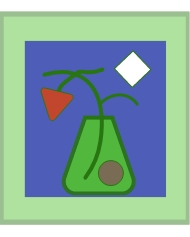
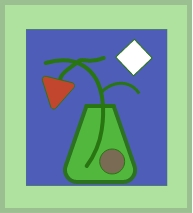
feat: add images

diff --git a/index.html b/index.html
@@ -22,11 +22,15 @@
 </head>
 <body>
 <nav class="navbar">
-	<a href="#page_title">Home</a> 
-	<a href="#demos">Demos</a> 
-	<a href="#contact">Contact</a> 
+	<ul>
+	<li><a href="#page_title">Home</a></li>
+	<li><a href="#demos">Demos</a></li> 
+	<li><a href="#contact">Contact</a></li> 
+	</ul>
 </nav>
+
 <header>
+<img src="images/custom-flask-plant-graphic.jpg", alt="custom flask plant experimentation graphic", width="189.44", height="236.17", id="header_image">
 <h1 id="page_title">An Iterative Space for Experimentation</h1>
 <h2 id="page_headline">A Playground for Exploring Fundamental Possibilities Systematically</h2>
 </header>
@@ -34,7 +38,7 @@
 <hr class="section_break">
 
 <div>
-<h2 id="possibilites_header">What is the scope of possibilities?</h2>
+<h2 id="possibilites_header", class="section_header">What is the scope of possibilities?</h2>
 
 <p>We live in a limited world with limitless possibilities.</p>
 <p>The future is uncertain, but the present moment is full of occurrences 
@@ -42,17 +46,17 @@
 <p>We cannot help but act and influence the environment around us.</p>
 <p>Our world is not inseparable from ourselves.</p>
 <p>Applying systematic thinking to simplified models of our world may help us see the interplay between actions we can control and their influence on the world that surrounds us.</p>
-
+<img src="images/map-possibilities-custom-graphic.jpg", alt="map possibilities custom graphic", width="618.66", height="436.2">
 </div>
 <hr class="section_break">
 
 <div id="demos">
-<h2>Explorations Within a Confined System</h2>
-
+<h2 id="demos_header", class="section_header">Explorations Within a Confined System</h2>
+<img src="images/mysterious-box-question-graphic.jpg", alt="mysterious box question graphic", width="246", height="256">
 <p>The interactive demonstrations, games, and case studies in this section expand upon the topic of exploring different possible outcomes within a constrained systemic structure.</p>
 </div>
 <hr>
-<div id="contact">
+<div id="contact", class="footer">
 	If you have any questions or suggestions for this page, feel to contact akprojs.me@gmail.com
 </div>
 </body>
